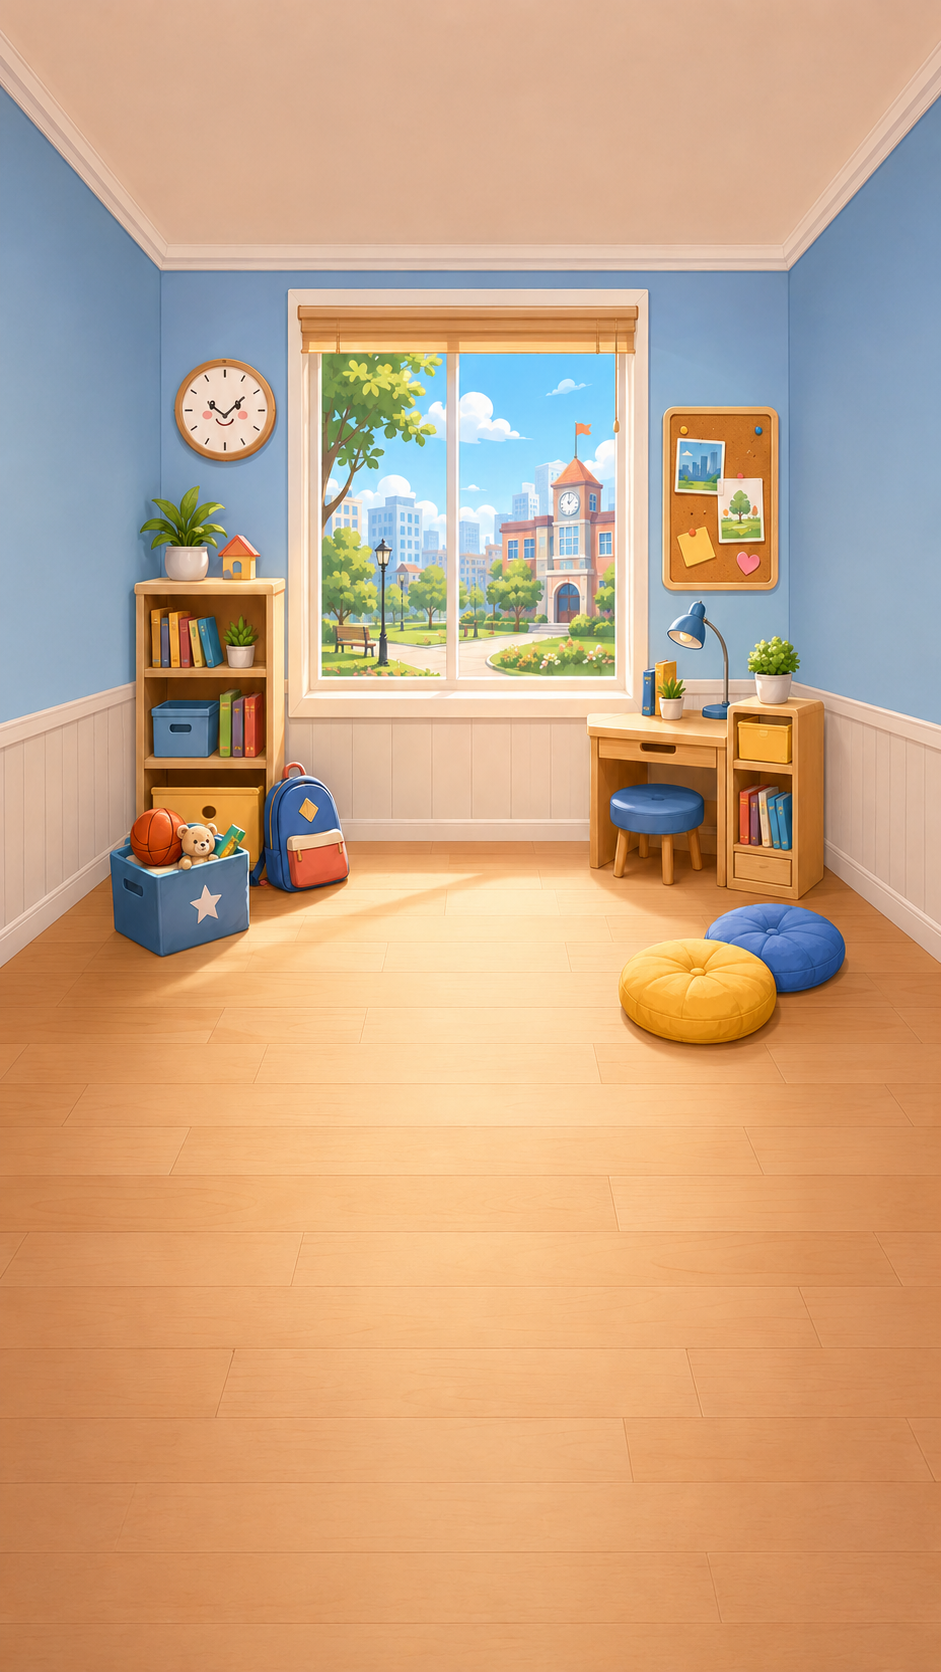
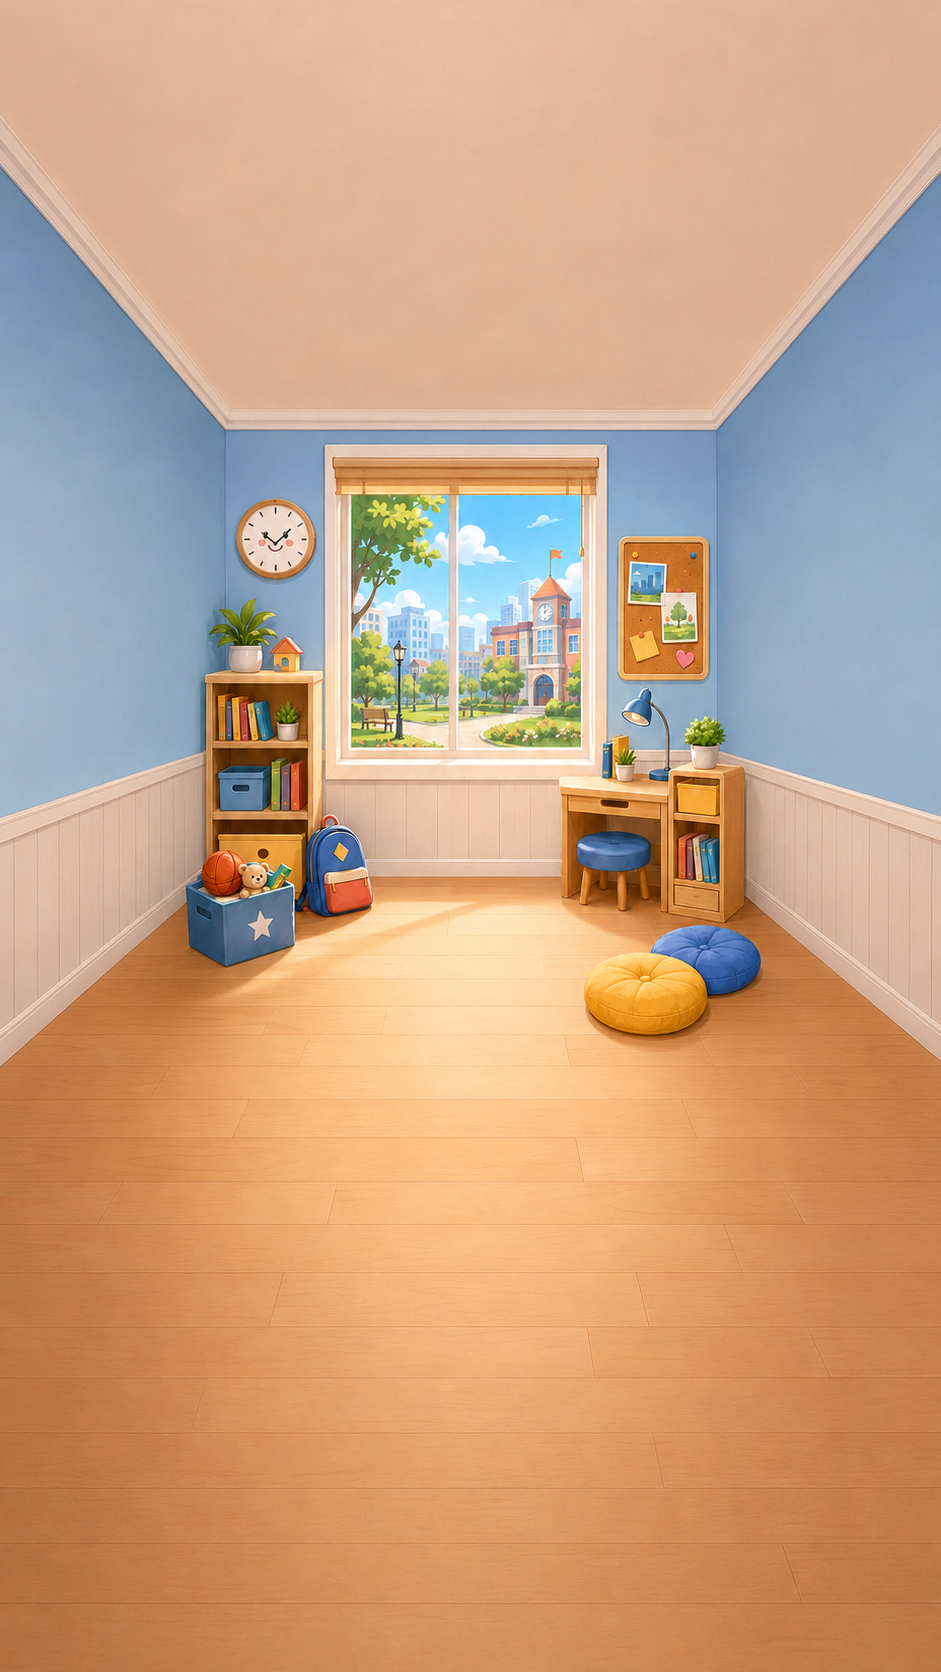
Brand-lock app to green, new room + badge art
- Brand color is now the fixed JoanX green regardless of the equipped
  buddy: comic line brand-locked via STYLE_BRAND, and home/nav/hero
  chrome pinned to THEME.brand. The buddy is art; switching it (Hammy →
  Pip → Sunny) no longer repaints the app.
- Replace the three room backgrounds (green / town / magic) with new
  illustrated art.
- Illustrated badge medallions: 11 achievements with badge-*.png art,
  Badges.jsx renders the image with drawn-rosette fallback.

diff --git a/src/child/Badges.jsx b/src/child/Badges.jsx
@@ -61,6 +61,32 @@ function BadgeMedallion({ a, size = 76, locked }) {
   );
 }
 
+/* The badge face at a given size. When the achievement carries `img`, that
+   finished medallion art is the badge — it already has the plate, ring, ribbon
+   and central icon, so we render it whole and skip the drawn rosette. Locked is
+   the same art in greyscale, matching the drawn-medallion behaviour below: a
+   child still sees the silhouette of what they haven't earned. Without `img`
+   (the abstract streak/collector badges), fall back to the drawn medallion with
+   the lucide icon at its centre. */
+function BadgeArt({ a, size = 76, locked }) {
+  const iconSize = size * 0.34;
+  if (a.img) {
+    return (
+      <img src={`/assets/badges/${a.img}`} alt="" draggable="false"
+        style={{ width: size, height: size, display: 'block', flexShrink: 0, objectFit: 'contain',
+          filter: locked ? 'grayscale(1) opacity(.5)' : 'none' }} />
+    );
+  }
+  return (
+    <div style={{ position: 'relative', lineHeight: 0 }}>
+      <BadgeMedallion a={a} size={size} locked={locked} />
+      <span style={{ position: 'absolute', inset: 0, display: 'flex', alignItems: 'center', justifyContent: 'center' }}>
+        <Icon name={a.icon} size={iconSize} color={locked ? '#8e8a86' : '#fff'} stroke={2.4} />
+      </span>
+    </div>
+  );
+}
+
 /* One badge in the grid: medallion, name, and either the tier or the progress
    toward it. The whole tile is the tap target — a badge is a thing you pick
    up, not a row with a chevron. */
@@ -70,12 +96,7 @@ function BadgeTile({ a, onPick }) {
   return (
     <button onClick={() => onPick(a)} className="jx-press"
       style={{ background: '#fff', border: 'none', borderRadius: 18, padding: '14px 8px 11px', boxShadow: THEME.shadowCard, display: 'flex', flexDirection: 'column', alignItems: 'center', gap: 7, cursor: 'pointer', fontFamily: 'inherit' }}>
-      <div style={{ position: 'relative' }}>
-        <BadgeMedallion a={a} locked={locked} />
-        <span style={{ position: 'absolute', inset: 0, display: 'flex', alignItems: 'center', justifyContent: 'center' }}>
-          <Icon name={a.icon} size={26} color={locked ? '#8e8a86' : '#fff'} stroke={2.4} />
-        </span>
-      </div>
+      <BadgeArt a={a} locked={locked} />
       <span style={{ fontSize: 12, fontWeight: 800, color: locked ? THEME.fg3 : THEME.fg1, lineHeight: 1.2, textAlign: 'center' }}>{L(a.name)}</span>
       {locked && a.total
         ? <span style={{ fontSize: 10.5, fontWeight: 700, color: THEME.fg3 }}>{a.progress}/{a.total}</span>
@@ -93,11 +114,8 @@ function BadgeSheet({ a, onClose }) {
   return (
     <BottomSheet title={L('Achievement')} onClose={onClose}>
       <div style={{ display: 'flex', flexDirection: 'column', alignItems: 'center', textAlign: 'center', padding: '4px 4px 8px' }}>
-        <div style={{ position: 'relative', marginBottom: 12 }}>
-          <BadgeMedallion a={a} size={116} locked={locked} />
-          <span style={{ position: 'absolute', inset: 0, display: 'flex', alignItems: 'center', justifyContent: 'center' }}>
-            <Icon name={a.icon} size={40} color={locked ? '#8e8a86' : '#fff'} stroke={2.3} />
-          </span>
+        <div style={{ marginBottom: 12 }}>
+          <BadgeArt a={a} size={116} locked={locked} />
         </div>
         <div style={{ display: 'inline-flex', alignItems: 'center', gap: 5, background: locked ? THEME.surface2 : shade(t.plate, 62), borderRadius: 999, padding: '5px 11px', marginBottom: 8 }}>
           <Icon name={locked ? 'lock' : 'check'} size={12} color={locked ? THEME.fg3 : t.ring} stroke={2.6} />
@@ -147,4 +165,4 @@ const badgesEarned = () => ACHIEVEMENTS.filter(a => a.done).length;
    tab still lands on Buddies. Kept here beside the grid it targets. */
 const collectionIntent = { side: null };
 
-export { BadgeGrid, BadgeMedallion, BADGE_TIERS, badgesEarned, tierOf, collectionIntent };
+export { BadgeGrid, BadgeMedallion, BadgeArt, BADGE_TIERS, badgesEarned, tierOf, collectionIntent };

diff --git a/src/child/HomeVariantsSimple.jsx b/src/child/HomeVariantsSimple.jsx
@@ -247,7 +247,7 @@ function HomeSimpleOriginal({ ctx }) {
         <div style={{ marginBottom: 14 }}><SafetyPillS ctx={ctx} lite={lite} /></div>
 
         {/* character hero */}
-        <div onClick={() => ctx.nav('character', { id: c.id })} style={{ position: 'relative', borderRadius: 24, padding: '18px 18px 20px', marginBottom: 14, cursor: 'pointer', overflow: 'hidden', background: `linear-gradient(160deg, ${shade(c.color, 78)} 0%, ${THEME.surface} 70%)`, boxShadow: THEME.shadowCard }}>
+        <div onClick={() => ctx.nav('character', { id: c.id })} style={{ position: 'relative', borderRadius: 24, padding: '18px 18px 20px', marginBottom: 14, cursor: 'pointer', overflow: 'hidden', background: `linear-gradient(160deg, ${shade(THEME.brand, 78)} 0%, ${THEME.surface} 70%)`, boxShadow: THEME.shadowCard }}>
           <div style={{ display: 'flex', justifyContent: 'space-between', alignItems: 'flex-start' }}>
             <div>
               <Badge variant={c.rarity === 'epic' ? 'epic' : c.rarity === 'rare' ? 'primary' : 'default'}>{L(RARITY[c.rarity].label)}</Badge>
@@ -457,12 +457,11 @@ function HomeSimpleFocus({ ctx }) {
   const lite = ctx.mode === 'lite';
   const pct = Math.min(1, c.xp / c.xpMax);   // ring tracks the buddy's XP toward the next level
   const R = 94, SW = 9, ring = 2 * (R + SW), circ = 2 * Math.PI * R;
-  // mixed "aurora" wash — analogous tones derived from the buddy hue, fading to sand.
-  // A neon brand colour (the cute line's magenta) can't take these alphas straight:
-  // pastelise it and sweep pink → lavender → periwinkle instead. See primitives.jsx.
-  const [w1, w2, w3] = isNeon(c.color)
-    ? [pastelHue(c.color, 4, 0.86, 0.62), pastelHue(c.color, -46, 0.83, 0.54), pastelHue(c.color, -94, 0.81, 0.46)]
-    : [mixHue(c.color, -24, 0.06, 0.78), mixHue(c.color, 4, 0.10, 0.72), mixHue(c.color, 26, 0.14, 0.6)];
+  // Brand chrome (wash, ring, accents) is ALWAYS the JoanX green — it does not follow
+  // the equipped buddy's hue. Only the Mascot illustration keeps its own species colour.
+  const brand = THEME.brand;
+  // mixed "aurora" wash — analogous green tones from the brand hue, fading to sand.
+  const [w1, w2, w3] = [mixHue(brand, -24, 0.06, 0.78), mixHue(brand, 4, 0.10, 0.72), mixHue(brand, 26, 0.14, 0.6)];
   const bg = `linear-gradient(180deg, ${THEME.surface2}00 0%, ${THEME.surface2}00 210px, ${THEME.surface2} 540px), linear-gradient(125deg, ${w1} 0%, ${w2} 50%, ${w3} 100%), ${THEME.surface2}`;
 
   return (
@@ -470,7 +469,7 @@ function HomeSimpleFocus({ ctx }) {
       <div style={{ padding: '10px 18px 0', display: 'flex', alignItems: 'center', justifyContent: 'space-between' }}>
         {/* the buddy's face leads the greeting, and doubles as the way into the profile */}
         <button onClick={() => ctx.nav('profile')} style={{ display: 'flex', alignItems: 'center', gap: 10, background: 'none', border: 'none', padding: 0, cursor: 'pointer', fontFamily: 'inherit', textAlign: 'left' }}>
-          <div style={{ width: 42, height: 42, borderRadius: 999, background: shade(c.color, 80), display: 'flex', alignItems: 'center', justifyContent: 'center', overflow: 'hidden', flexShrink: 0 }}>
+          <div style={{ width: 42, height: 42, borderRadius: 999, background: shade(brand, 80), display: 'flex', alignItems: 'center', justifyContent: 'center', overflow: 'hidden', flexShrink: 0 }}>
             <Mascot species={c.species} stage={c.stage} color={c.color} size={42} />
           </div>
           <div>
@@ -482,22 +481,22 @@ function HomeSimpleFocus({ ctx }) {
       </div>
 
       <div style={{ textAlign: 'center', marginTop: 10 }}>
-        <span style={{ fontSize: 12, fontWeight: 800, letterSpacing: '.5px', textTransform: 'uppercase', color: shade(c.color, -42) }}>{L('Next level')}</span>
+        <span style={{ fontSize: 12, fontWeight: 800, letterSpacing: '.5px', textTransform: 'uppercase', color: shade(brand, -42) }}>{L('Next level')}</span>
       </div>
 
       {/* goal ring + buddy */}
       <div onClick={() => ctx.nav('character', { id: c.id })} style={{ position: 'relative', width: ring, height: ring, margin: '8px auto 0', cursor: 'pointer' }}>
         <svg width={ring} height={ring} viewBox={`0 0 ${ring} ${ring}`} style={{ position: 'absolute', inset: 0, transform: 'rotate(-90deg)' }}>
           <circle cx={R + SW} cy={R + SW} r={R} fill="none" stroke={THEME.border} strokeWidth={SW} />
-          <circle cx={R + SW} cy={R + SW} r={R} fill="none" stroke={c.color} strokeWidth={SW} strokeLinecap="round" strokeDasharray={circ} strokeDashoffset={circ * (1 - pct)} style={{ transition: 'stroke-dashoffset .8s cubic-bezier(.4,0,.2,1)' }} />
+          <circle cx={R + SW} cy={R + SW} r={R} fill="none" stroke={brand} strokeWidth={SW} strokeLinecap="round" strokeDasharray={circ} strokeDashoffset={circ * (1 - pct)} style={{ transition: 'stroke-dashoffset .8s cubic-bezier(.4,0,.2,1)' }} />
         </svg>
         <div style={{ position: 'absolute', inset: 0, display: 'flex', alignItems: 'center', justifyContent: 'center' }}>
           <div className="jx-float"><Mascot species={c.species} stage={c.stage} color={c.color} size={150} /></div>
         </div>
         {/* XP pill on the ring — progress toward the buddy's next level */}
         <div style={{ position: 'absolute', bottom: -8, left: '50%', transform: 'translateX(-50%)', background: '#fff', borderRadius: 999, padding: '6px 14px', boxShadow: THEME.shadowSoft, display: 'flex', alignItems: 'center', gap: 6, whiteSpace: 'nowrap' }}>
-          <Icon name="zap" size={15} color={c.color} fill={c.color} stroke={2.4} />
-          <span className="game-font" style={{ fontSize: 14, fontWeight: 500, color: shade(c.color, -30) }}>{c.xp}/{c.xpMax} XP</span>
+          <Icon name="zap" size={15} color={brand} fill={brand} stroke={2.4} />
+          <span className="game-font" style={{ fontSize: 14, fontWeight: 500, color: shade(brand, -30) }}>{c.xp}/{c.xpMax} XP</span>
         </div>
       </div>
 
@@ -525,7 +524,7 @@ function HomeSimpleFocus({ ctx }) {
           ))}
         </div>
         {/* today's tasks — daily missions that pay a bonus */}
-        <TodayTasksS accent={c.color} />
+        <TodayTasksS accent={brand} />
       </div>
     </div>
   );

diff --git a/src/core/data.jsx b/src/core/data.jsx
@@ -1688,13 +1688,24 @@ const ROOMS = [
    achievement ids as triggers (EGG_GRANTS g-ach-*, CHARACTER_UNLOCKS u-ach-*,
    ITEM_GRANTS i-ach-*), so wiring one up later is claimRewards({ achievement:
    id }) at the moment it completes — not a new data structure. */
+/* `img` names a finished medallion in /assets/badges (art already carries the
+   plate, ring, ribbon and central icon). When present, Badges.jsx renders the
+   image and skips the drawn rosette + lucide `icon`; `icon` stays as the
+   fallback if the file is ever missing. The two abstract achievements (streak,
+   collector) now carry their own art too. Any future row without `img` simply
+   falls back to the drawn medallion + lucide `icon`. */
 const ACHIEVEMENTS = [
-  { id: 'a1', icon: 'footprints', tier: 'common', name: 'First Steps',   desc: 'Walk safely for 10 minutes',  done: true,  reward: 50 },
-  { id: 'a2', icon: 'flame',      tier: 'common', name: '5-Day Streak',  desc: 'Be safe 5 days in a row',      done: true,  reward: 120 },
-  { id: 'a3', icon: 'timer',      tier: 'rare',   name: 'Quick Reflex',  desc: 'Stop within 3s, 10 times',     done: true,  reward: 80 },
-  { id: 'a4', icon: 'shield-check', tier: 'common', name: 'Zone Dodger', desc: 'Avoid 5 danger zones',         done: false, progress: 3, total: 5, reward: 150 },
-  { id: 'a5', icon: 'gem',        tier: 'epic',   name: 'Collector',     desc: 'Own 8 characters',             done: false, progress: 6, total: 8, reward: 200 },
-  { id: 'a6', icon: 'sunrise',    tier: 'rare',   name: 'Early Walker',  desc: 'Safe morning commute, 7 days', done: false, progress: 4, total: 7, reward: 130 },
+  { id: 'a1', icon: 'footprints',   tier: 'common', name: 'First Steps',   desc: 'Walk safely for 10 minutes',   done: true,  reward: 50,  img: 'badge-first-steps.png' },
+  { id: 'a2', icon: 'flame',        tier: 'common', name: '5-Day Streak',  desc: 'Be safe 5 days in a row',      done: true,  reward: 120, img: 'badge-streak.png' },
+  { id: 'a3', icon: 'timer',        tier: 'rare',   name: 'Quick Reflex',  desc: 'Stop within 3s, 10 times',     done: true,  reward: 80,  img: 'badge-quick-reflex.png' },
+  { id: 'a4', icon: 'shield-check', tier: 'common', name: 'Zone Dodger',   desc: 'Avoid 5 danger zones',         done: false, progress: 3, total: 5, reward: 150, img: 'badge-zone-dodger.png' },
+  { id: 'a5', icon: 'gem',          tier: 'epic',   name: 'Collector',     desc: 'Own 8 characters',             done: false, progress: 6, total: 8, reward: 200, img: 'badge-collector.png' },
+  { id: 'a6', icon: 'sunrise',      tier: 'rare',   name: 'Early Walker',  desc: 'Safe morning commute, 7 days', done: false, progress: 4, total: 7, reward: 130, img: 'badge-early-walker.png' },
+  { id: 'a7', icon: 'signpost',     tier: 'rare',   name: 'Crossing Pro',  desc: 'Cross at 10 crosswalks',       done: true,  reward: 110, img: 'badge-crossing-pro.png' },
+  { id: 'a8', icon: 'smartphone',   tier: 'common', name: 'Eyes Up',       desc: 'Finish 5 phone-free walks',    done: false, progress: 3, total: 5, reward: 90,  img: 'badge-eyes-up.png' },
+  { id: 'a9', icon: 'hard-hat',     tier: 'common', name: 'Helmet Hero',   desc: 'Helmet on for 7 rides',        done: true,  reward: 100, img: 'badge-helmet-hero.png' },
+  { id: 'a10', icon: 'car-front',   tier: 'common', name: 'Buckle Up',     desc: 'Buckle up on 10 car rides',    done: false, progress: 6, total: 10, reward: 100, img: 'badge-buckle-up.png' },
+  { id: 'a11', icon: 'route',       tier: 'rare',   name: 'Safe Route',    desc: 'Take the safe route 5 times',  done: false, progress: 2, total: 5, reward: 120, img: 'badge-safe-route.png' },
 ];
 
 

diff --git a/src/child/Profile.jsx b/src/child/Profile.jsx
@@ -6,7 +6,7 @@ import { Badge, Bar, Icon, THEME, Toggle } from '../core/primitives.jsx';
 import { L, setLang } from '../core/i18n.jsx';
 import { Mascot, shade } from '../core/characters.jsx';
 import { screenBgActive, ScreenHeader } from './shared.jsx';
-import { BadgeMedallion, collectionIntent, tierOf } from './Badges.jsx';
+import { BadgeArt, collectionIntent, tierOf } from './Badges.jsx';
 
 // ── Trophy shelf (Profile) ───────────────────────────────────────────
 // The badge's home outside the Collection tab. A badge you can't show off is only
@@ -16,14 +16,7 @@ import { BadgeMedallion, collectionIntent, tierOf } from './Badges.jsx';
 // straight into the Badges grid via collectionIntent. Same medallion + centred icon
 // composition as a badge tile, so a trophy is the same object wherever it appears.
 function Medal({ a, size = 46 }) {
-  return (
-    <div style={{ position: 'relative', width: size, height: size, flexShrink: 0 }}>
-      <BadgeMedallion a={a} size={size} locked={!a.done} />
-      <span style={{ position: 'absolute', inset: 0, display: 'flex', alignItems: 'center', justifyContent: 'center' }}>
-        <Icon name={a.icon} size={Math.round(size * 0.34)} color={a.done ? '#fff' : '#8e8a86'} stroke={2.4} />
-      </span>
-    </div>
-  );
+  return <BadgeArt a={a} size={size} locked={!a.done} />;
 }
 
 function TrophyShelf({ onOpen }) {
@@ -35,7 +28,7 @@ function TrophyShelf({ onOpen }) {
   const t = nextUp && tierOf(nextUp);
 
   return (
-    <button onClick={onOpen} className="jx-press"
+    <button onClick={onOpen}
       style={{ width: '100%', textAlign: 'left', fontFamily: 'inherit', cursor: 'pointer', background: '#fff', borderRadius: 18, border: `1px solid ${THEME.border}`, padding: '14px 15px 15px', marginBottom: 18, display: 'block' }}>
       <div style={{ display: 'flex', alignItems: 'center', gap: 8, marginBottom: 12 }}>
         <Icon name="trophy" size={16} color={THEME.gold} stroke={2.3} />
@@ -95,7 +88,7 @@ function Profile({ ctx }) {
       <ScreenHeader title={L('Profile')} />
       <div style={{ padding: '0 16px' }}>
         {/* hero — tapping the avatar opens the public house/rooms profile (F-32) */}
-        <button onClick={() => ctx.nav('myhouse')} style={{ width: '100%', textAlign: 'left', fontFamily: 'inherit', cursor: 'pointer', background: `linear-gradient(165deg, ${shade(c.color, 76)}, #fff 78%)`, borderRadius: 20, padding: '14px 16px', border: `1px solid ${THEME.border}`, marginBottom: 14, display: 'flex', alignItems: 'center', gap: 13 }}>
+        <button onClick={() => ctx.nav('myhouse')} style={{ width: '100%', textAlign: 'left', fontFamily: 'inherit', cursor: 'pointer', background: `linear-gradient(165deg, ${shade(THEME.brand, 76)}, #fff 78%)`, borderRadius: 20, padding: '14px 16px', border: `1px solid ${THEME.border}`, marginBottom: 14, display: 'flex', alignItems: 'center', gap: 13 }}>
           <div style={{ width: 64, height: 64, display: 'flex', alignItems: 'center', justifyContent: 'center', flexShrink: 0 }}><Mascot species={c.species} stage={c.stage} color={c.color} size={60} /></div>
           <div style={{ flex: 1, minWidth: 0 }}>
             <div className="game-font" style={{ fontSize: 24, fontWeight: 500 }}>{PLAYER.name}</div>

diff --git a/src/core/characters.jsx b/src/core/characters.jsx
@@ -391,8 +391,10 @@ function MascotToyCute({ species = 'fox', size = 160, style, float }) {
 
 // Styles whose whole line shares one brand colour. For these, the buddy is art and the
 // brand is fixed: hatching a new character changes who you see, never how the app looks.
-// (The comic/soft lines are the older behaviour — each buddy recolours the app.)
-const STYLE_BRAND = { cute: CUTE_BRAND };
+// The comic line is the app's product line, so it is brand-locked to the JoanX green —
+// switching buddy (Hammy → Pip → Sunny…) never repaints the app. Comic mascots are fixed
+// PNG art, so pinning the accent only affects chrome, never the character illustration.
+const STYLE_BRAND = { cute: CUTE_BRAND, comic: THEME.brand };
 
 // The locked brand colour of a character style, or null if the style recolours per buddy.
 const styleBrand = (style) => STYLE_BRAND[style || window.JX_CHAR_STYLE] || null;

diff --git a/src/child/ChildHome.jsx b/src/child/ChildHome.jsx
@@ -49,7 +49,7 @@ function ChildHome({ ctx }) {
         </div>
 
         {/* character hero */}
-        <div onClick={() => ctx.nav('character', { id: c.id })} style={{ position: 'relative', borderRadius: 24, padding: '18px 18px 20px', marginBottom: 14, cursor: 'pointer', overflow: 'hidden', background: `linear-gradient(160deg, ${shade(c.color, 78)} 0%, ${THEME.surface} 70%)`, boxShadow: THEME.shadowCard }}>
+        <div onClick={() => ctx.nav('character', { id: c.id })} style={{ position: 'relative', borderRadius: 24, padding: '18px 18px 20px', marginBottom: 14, cursor: 'pointer', overflow: 'hidden', background: `linear-gradient(160deg, ${shade(THEME.brand, 78)} 0%, ${THEME.surface} 70%)`, boxShadow: THEME.shadowCard }}>
           <div style={{ display: 'flex', justifyContent: 'space-between', alignItems: 'flex-start' }}>
             <div>
               <Badge variant={c.rarity === 'epic' ? 'epic' : c.rarity === 'rare' ? 'primary' : 'default'}>{L(RARITY[c.rarity].label)}</Badge>

diff --git a/src/child/FriendHouse.jsx b/src/child/FriendHouse.jsx
@@ -68,7 +68,7 @@ function FriendHouse({ ctx }) {
       <div style={{ padding: '0 16px' }}>
 
         {/* featured buddy */}
-        <div style={{ borderRadius: 24, padding: '18px 16px', background: `linear-gradient(165deg, ${shade(fc.color, 74)}, #fff 78%)`, boxShadow: THEME.shadowCard, textAlign: 'center', marginBottom: 14 }}>
+        <div style={{ borderRadius: 24, padding: '18px 16px', background: `linear-gradient(165deg, ${shade(THEME.brand, 74)}, #fff 78%)`, boxShadow: THEME.shadowCard, textAlign: 'center', marginBottom: 14 }}>
           <div style={{ fontSize: 12, fontWeight: 700, color: THEME.fg2, textTransform: 'uppercase', letterSpacing: .4 }}>{L('Featured buddy')}</div>
           <div className="jx-float" style={{ display: 'flex', justifyContent: 'center' }}><Mascot species={fc.species} stage={fc.stage} color={fc.color} size={140} /></div>
           <div className="game-font" style={{ fontSize: 22, fontWeight: 500 }}>{fc.name}</div>

diff --git a/src/child/HomeVariants.jsx b/src/child/HomeVariants.jsx
@@ -297,7 +297,7 @@ function HomeTimeline({ ctx }) {
     <div className="no-sb" style={{ position: 'absolute', inset: 0, overflowY: 'auto', paddingTop: 50, paddingBottom: 110, background: screenBgFor(THEME.brand) }}>
       {/* compact buddy header card */}
       <div style={{ padding: '8px 16px 0' }}>
-        <div style={{ background: `linear-gradient(110deg, ${shade(c.color, 78)}, ${THEME.surface} 88%)`, borderRadius: 20, padding: 14, boxShadow: THEME.shadowCard, display: 'flex', alignItems: 'center', gap: 12 }}>
+        <div style={{ background: `linear-gradient(110deg, ${shade(THEME.brand, 78)}, ${THEME.surface} 88%)`, borderRadius: 20, padding: 14, boxShadow: THEME.shadowCard, display: 'flex', alignItems: 'center', gap: 12 }}>
           <button onClick={() => ctx.nav('character', { id: c.id })} style={{ width: 56, height: 56, borderRadius: 16, background: '#fff', display: 'flex', alignItems: 'center', justifyContent: 'center', flexShrink: 0, border: 'none', cursor: 'pointer', boxShadow: THEME.shadowCard }}><Mascot species={c.species} stage={c.stage} color={c.color} size={50} /></button>
           <div style={{ flex: 1, minWidth: 0 }}>
             <div style={{ fontSize: 12, color: THEME.fg2, fontWeight: 600 }}>{L('Good afternoon')}, {PLAYER.name}</div>

diff --git a/src/shell/App.jsx b/src/shell/App.jsx
@@ -269,7 +269,7 @@ function App() {
               bar, which is correct: it is app chrome like everything else it sits on. */}
           <div className={playClass} style={{ position: 'absolute', inset: 0 }}>
             {body}
-            {showChildTabs && <TabBar tabs={CHILD_TABS} active={activeChildTab} onTab={tabTo} accent={tw.color} />}
+            {showChildTabs && <TabBar tabs={CHILD_TABS} active={activeChildTab} onTab={tabTo} accent={THEME.brand} />}
             {role === 'parent' && parentOnboarded && PARENT_TAB_ROOTS.includes(pScreen) && <TabBar tabs={PARENT_TABS} active={pScreen} onTab={tabTo} accent={BRAND.primary} />}
           </div>
           <StatusBar dark={role === 'child' && overlay && mode === 'lite'} />

diff --git a/public/assets/badges/README.md b/public/assets/badges/README.md
@@ -1,0 +1,26 @@
+# Badge images
+
+Finished medallion art for achievements. Each PNG already includes the plate,
+ring, ribbon and central icon — the app renders the whole image (see `BadgeArt`
+in `src/child/Badges.jsx`) and skips the drawn rosette.
+
+Served at `/assets/badges/<file>`. Wired via the `img` field on each row of
+`ACHIEVEMENTS` in `src/core/data.jsx`.
+
+| File                      | Achievement            |
+| ------------------------- | ---------------------- |
+| `badge-first-steps.png`   | First Steps (a1)       |
+| `badge-streak.png`        | 5-Day Streak (a2)      |
+| `badge-quick-reflex.png`  | Quick Reflex (a3)      |
+| `badge-zone-dodger.png`   | Zone Dodger (a4)       |
+| `badge-collector.png`     | Collector (a5)         |
+| `badge-early-walker.png`  | Early Walker (a6)      |
+| `badge-crossing-pro.png`  | Crossing Pro (a7)      |
+| `badge-eyes-up.png`       | Eyes Up (a8)           |
+| `badge-helmet-hero.png`   | Helmet Hero (a9)       |
+| `badge-buckle-up.png`     | Buckle Up (a10)        |
+| `badge-safe-route.png`    | Safe Route (a11)       |
+
+Naming: `badge-<achievement-slug>.png`. Every achievement now has art. To add a
+badge, drop the PNG here and set `img` on its achievement row; a row without
+`img` falls back to the drawn medallion + lucide `icon`.